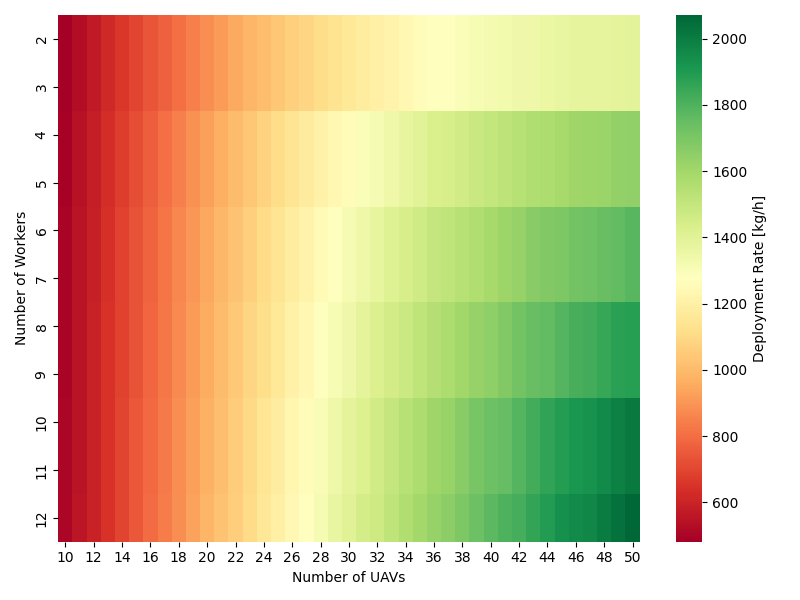
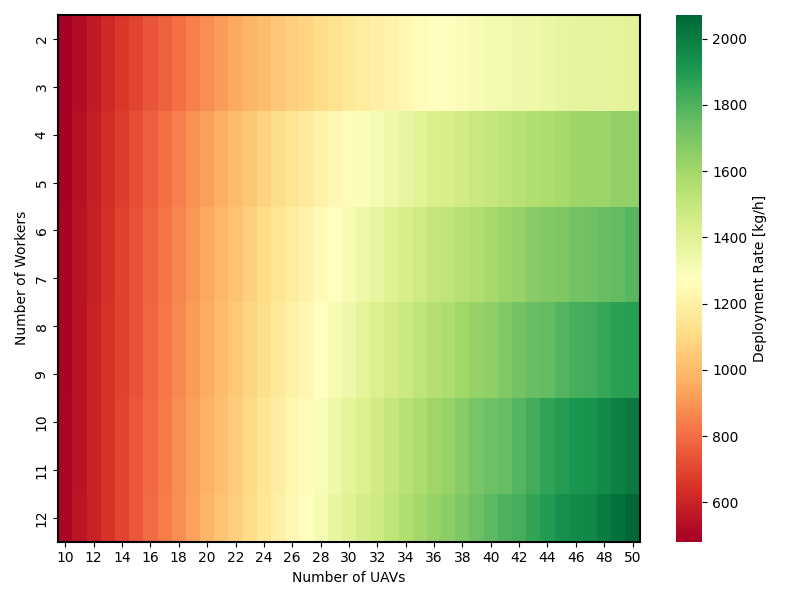
Adjusted plots

Changed region(s): [[0.0938, 0.9, 0.7812, 0.93], [0.0938, 0.0, 0.7812, 0.03]]

diff --git a/DetailedDesign/performance.py b/DetailedDesign/performance.py
@@ -175,6 +175,11 @@ class Performance:
 
                 plt.figure(figsize=(8, 6))
                 sns.heatmap(uav_worker_table, annot=False, fmt=".2f", cmap="RdYlGn", cbar_kws={'label': f'Deployment Rate {unit}'}, annot_kws={"size": 6})
+                ax = plt.gca()
+                for spine in ax.spines.values():
+                    spine.set_visible(True)
+                    spine.set_edgecolor('black')
+                    spine.set_linewidth(1.5)
                 plt.xlabel("Number of UAVs")
                 plt.ylabel("Number of Workers")
                 plt.tight_layout()

diff --git a/DetailedDesign/subsystems/structures.py b/DetailedDesign/subsystems/structures.py
@@ -700,8 +700,8 @@ if __name__ == "__main__":  # pragma: no cover
     # #print(a.determine_VTOL_boom_thickness())
     # a.NVM_VTOL()
     # a.NVM_cruise()
-    # a.NVM_propeller_boom()
+    a.NVM_propeller_boom()
     # a.sandwich()
     #print(a.VTOL_boom_mass)
     # print(a.determine_fuselage_thickness())
-    a.FEM_sensitivity_plots()
+    # a.FEM_sensitivity_plots()

diff --git a/DetailedDesign/mission.py b/DetailedDesign/mission.py
@@ -2,7 +2,7 @@ import numpy as np
 import math 
 
 
-from DetailedDesign.deployment import Deployment
+from deployment import Deployment
 
 
 '''
